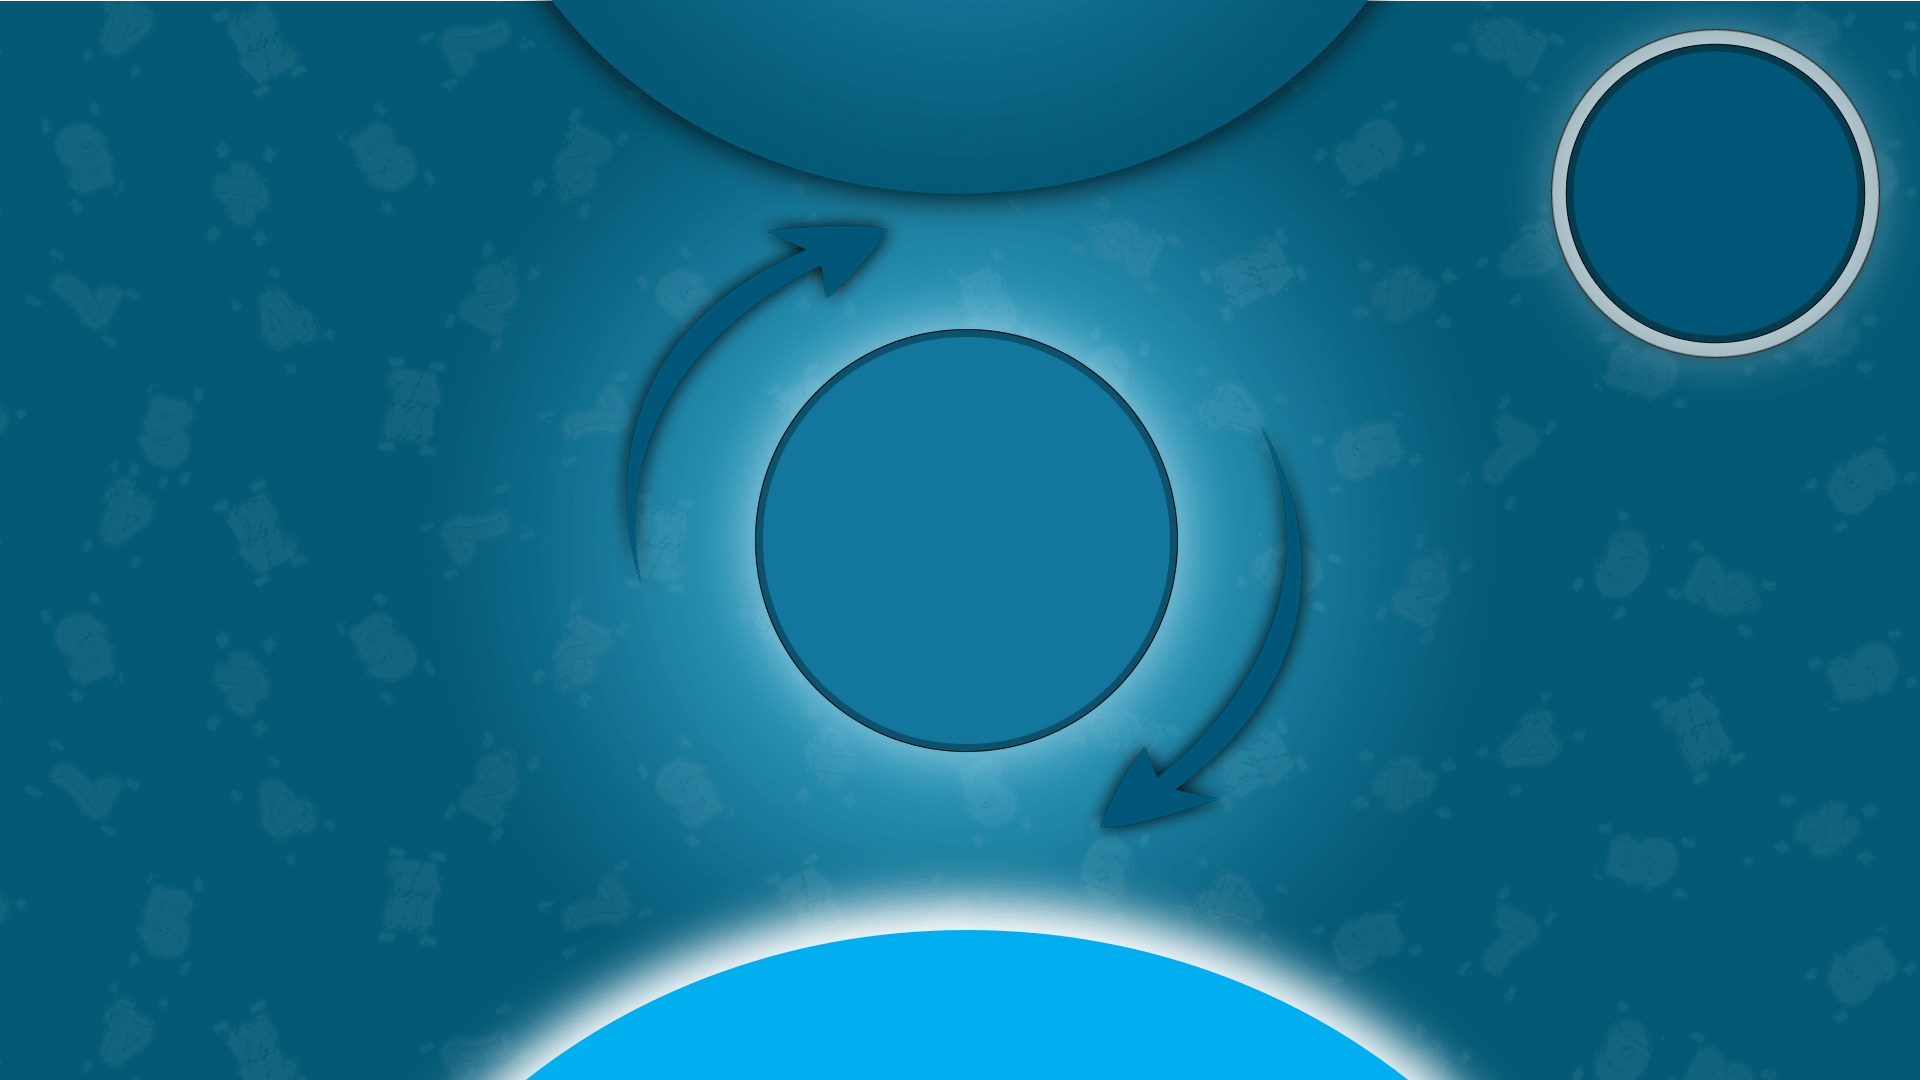
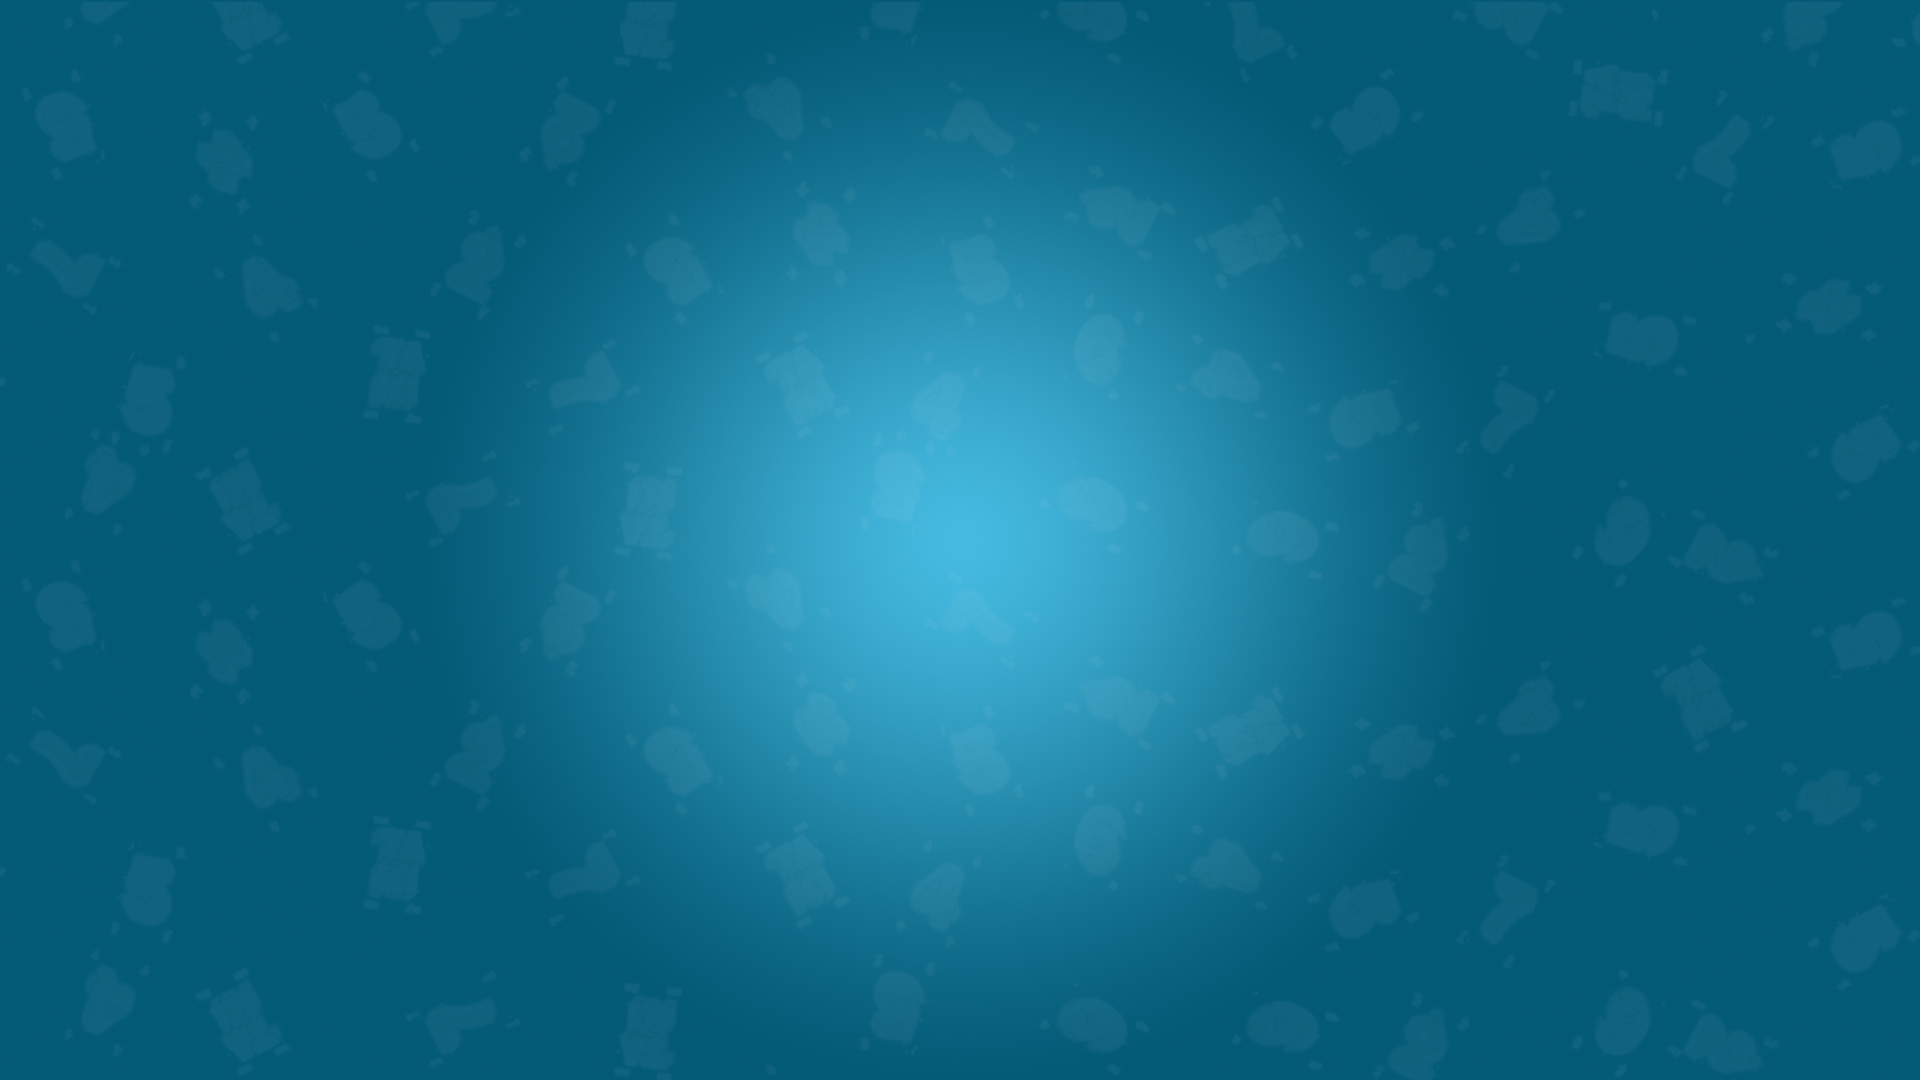
1. added images: new bg and stage. 2. changed names to match Taki's english version names. 3. built basic deck - still need to add basic logic. 4. updated css with images.

diff --git a/index.html b/index.html
@@ -1,26 +1,33 @@
 <html>
 <head >
-	<link rel="stylesheet" type="text/css" href="taki.css"><title>TAKI</title>
+    <link rel="stylesheet" type="text/css" href="taki.css">
+    <title>Taki Game</title>
 	<script type="text/javascript" src="taki.js"></script>
-<body background="Resources/Background.png">
+<body>
+<div class="game">
+    <div class="players">
+        <!--<div class="player">
+            <div class="disk">
+                <img src="/Resources/Disks/UserDisk.png" alt="User Disk" >
+            </div>
+        </div>-->
+    </div>
+    <div class="draw-pile">
+        <h3>draw-pile</h3>
+    </div>
+    <div class="discard-pile">
+        <h3>discard-pile</h3>
+    </div>
+    <div class="statistics">
+        <ul class="stats">Statistics</ul>
+        <li>Number of turns:</li>
+        <li>Time passed:</li>
+        <li>Average time per turn:</li>
+        <li>Number of time for 1 card:</li>
+    </div>
+    <button id="exit-button" onclick="exit_button_clicked()">Exit game</button>
+</div>
 
-<h1 style="text-align: center;">Welcome to the best game ever!</h1>
-<div style="float: right; display: flex; align-items: center">
-<div>Score: </div>
-<div  class="backed_pack">computer pack</div></div>
-<div style="position: fixed;top: 50%;left: 50%; transform: translate(-50%, -50%);">
-<div class="backed_pack">common pack</div>
-<div id="deck_pack" class="showed_pack">Deck</div></div>
-<div style="position: absolute; bottom:0px;right:25%;left:50%; transform: translate(-50%, -50%);" class="showed_pack">
-<div>Score: </div>
-<div class="">user pack</div></div>
-<ul class="stats">Statistics</ul>
-	<li>Number of turns:</li>
-	<li>Time passed:</li>
-	<li>Average time per turn:</li>
-	<li>Number of time for 1 card:</li>
-
-<button id="exit_button" onclick="exit_button_clicked()" style="align-items: center;">Exit game</button>
 
 </body>
 </html>

diff --git a/taki.css b/taki.css
@@ -1,40 +1,54 @@
 body
 {
-	background-color: lightblue;
-    font-family: 'Arial';
+    font-family: 'Arial', sans-serif;
+    background-image: url("Resources/Background.png");
+    background-size: cover;
 }
 
-.backed_pack 
-{
-	display: flex;
-	align-items: center;
-	padding: 20px;
-    height: 60px;
-    width: 60px;
-    margin-bottom: 10px;
-    background-color: green;
+.draw-pile {
+    position: absolute;
+    width: 200px;
+    height: 200px;
+    top: 40%;
+    left: 75%;
+    margin: -150px 0 0 -150px;
+    background: green;
+    text-align: center;
 }
 
-.showed_pack
-{
-	display: flex;
-	align-items: center;
-	padding: 20px;
-    height: 60px;
-    width: 60px;
-    margin-bottom: 10px;
-    background-color: red;
+.discard-pile {
+    position: absolute;
+    width: 350px;
+    height: 350px;
+    top: 50%;
+    left: 50%;
+    margin: -150px 0 0 -150px;
+    text-align: center;
+    background: url("Resources/DiscardStage.png") no-repeat;
+    background-size: contain;
 }
 
-#deck_pack
-{:
+.player {
+
 }
 
-#exit_button
+.disk {
+    position: absolute;
+    height: 100%;
+    width: 30%;
+}
+
+.disk img {
+    position: inherit;
+    left: 50%;
+    bottom: 0;
+}
+
+#exit-button
 {
 	position: absolute;
-	right: 0px;
-	bottom: 0px;
+    right: 0;
+    bottom: 0;
 	margin: 10px;
 	background-color: #4CAF50; /* Green */
     border: none;
@@ -44,4 +58,7 @@ body
     text-decoration: none;
     display: inline-block;
     font-size: 16px;
+    align-items: center;
+
 }
+

diff --git a/taki.js b/taki.js
@@ -1,3 +1,27 @@
 function exit_button_clicked() {
 	alert("You've exited the game!");
 }
+
+var colors = ["Green", "Yellow", "Red", "Blue"];
+var values = ["1", "3", "4", "5", "6", "7", "8", "9", "Taki", "Stop", "ChangeColor"];
+var deck = new Array();
+var players = new Array();
+var currentPlayer = 0;
+
+function createDeck() {
+    deck = new Array();
+    for (var cardValue = 0; cardValue < values.length; cardValue++) {
+        for (var color = 0; color < colors.length; color++) {
+            for (var i = 0; i < 2; i++) {
+                //TODO: no weight needed, what should we do instead?
+                /*var weight = parseInt(values[cardValue]);
+                if (values[cardValue] == "J" || values[cardValue] == "Q" || values[cardValue] == "K")
+                    weight = 10;
+                if (values[cardValue] == "A")
+                    weight = 11;*/
+                var card = {Value: values[cardValue], Suit: suits[color], Weight: weight};
+                deck.push(card);
+            }
+        }
+    }
+}
